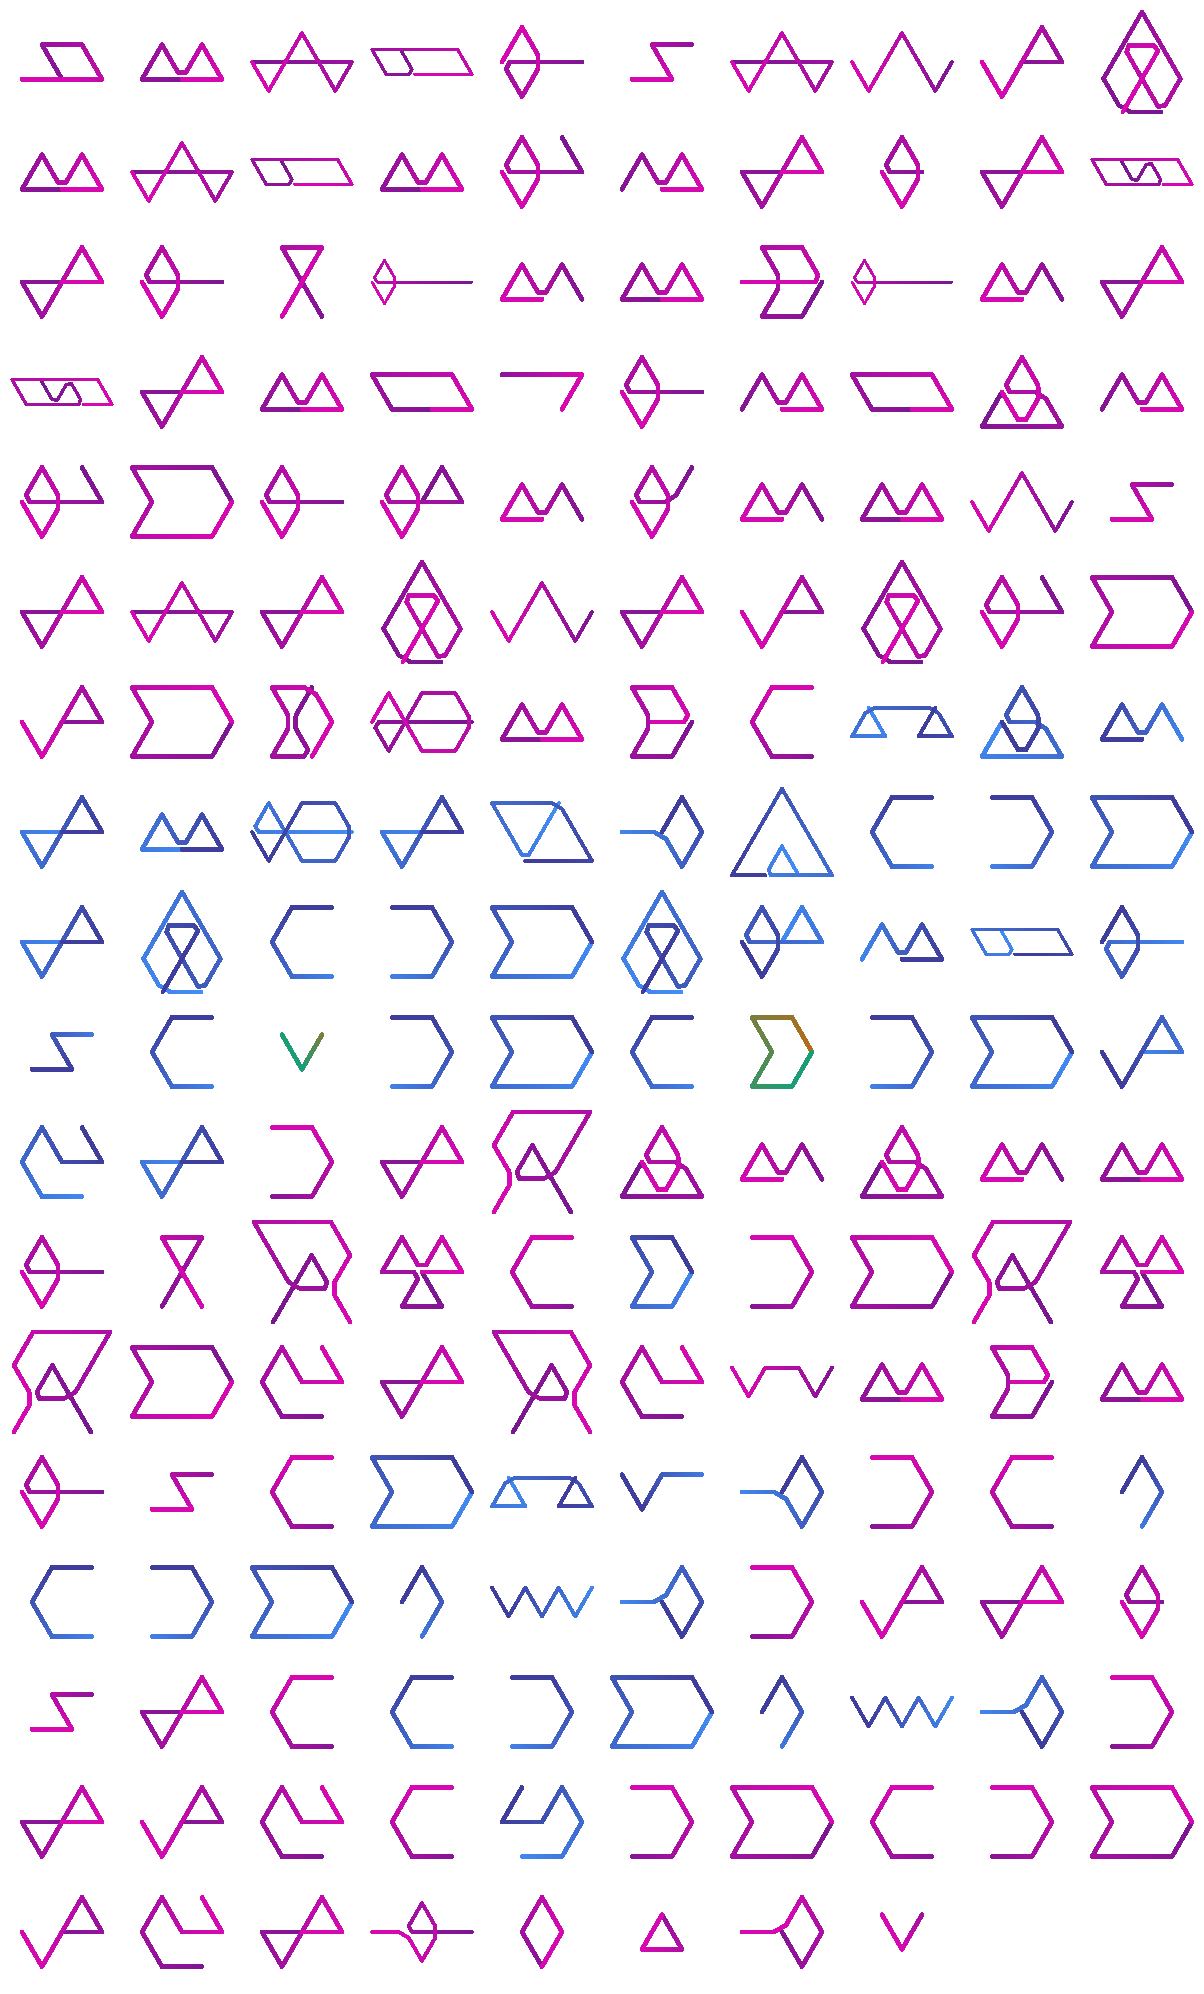
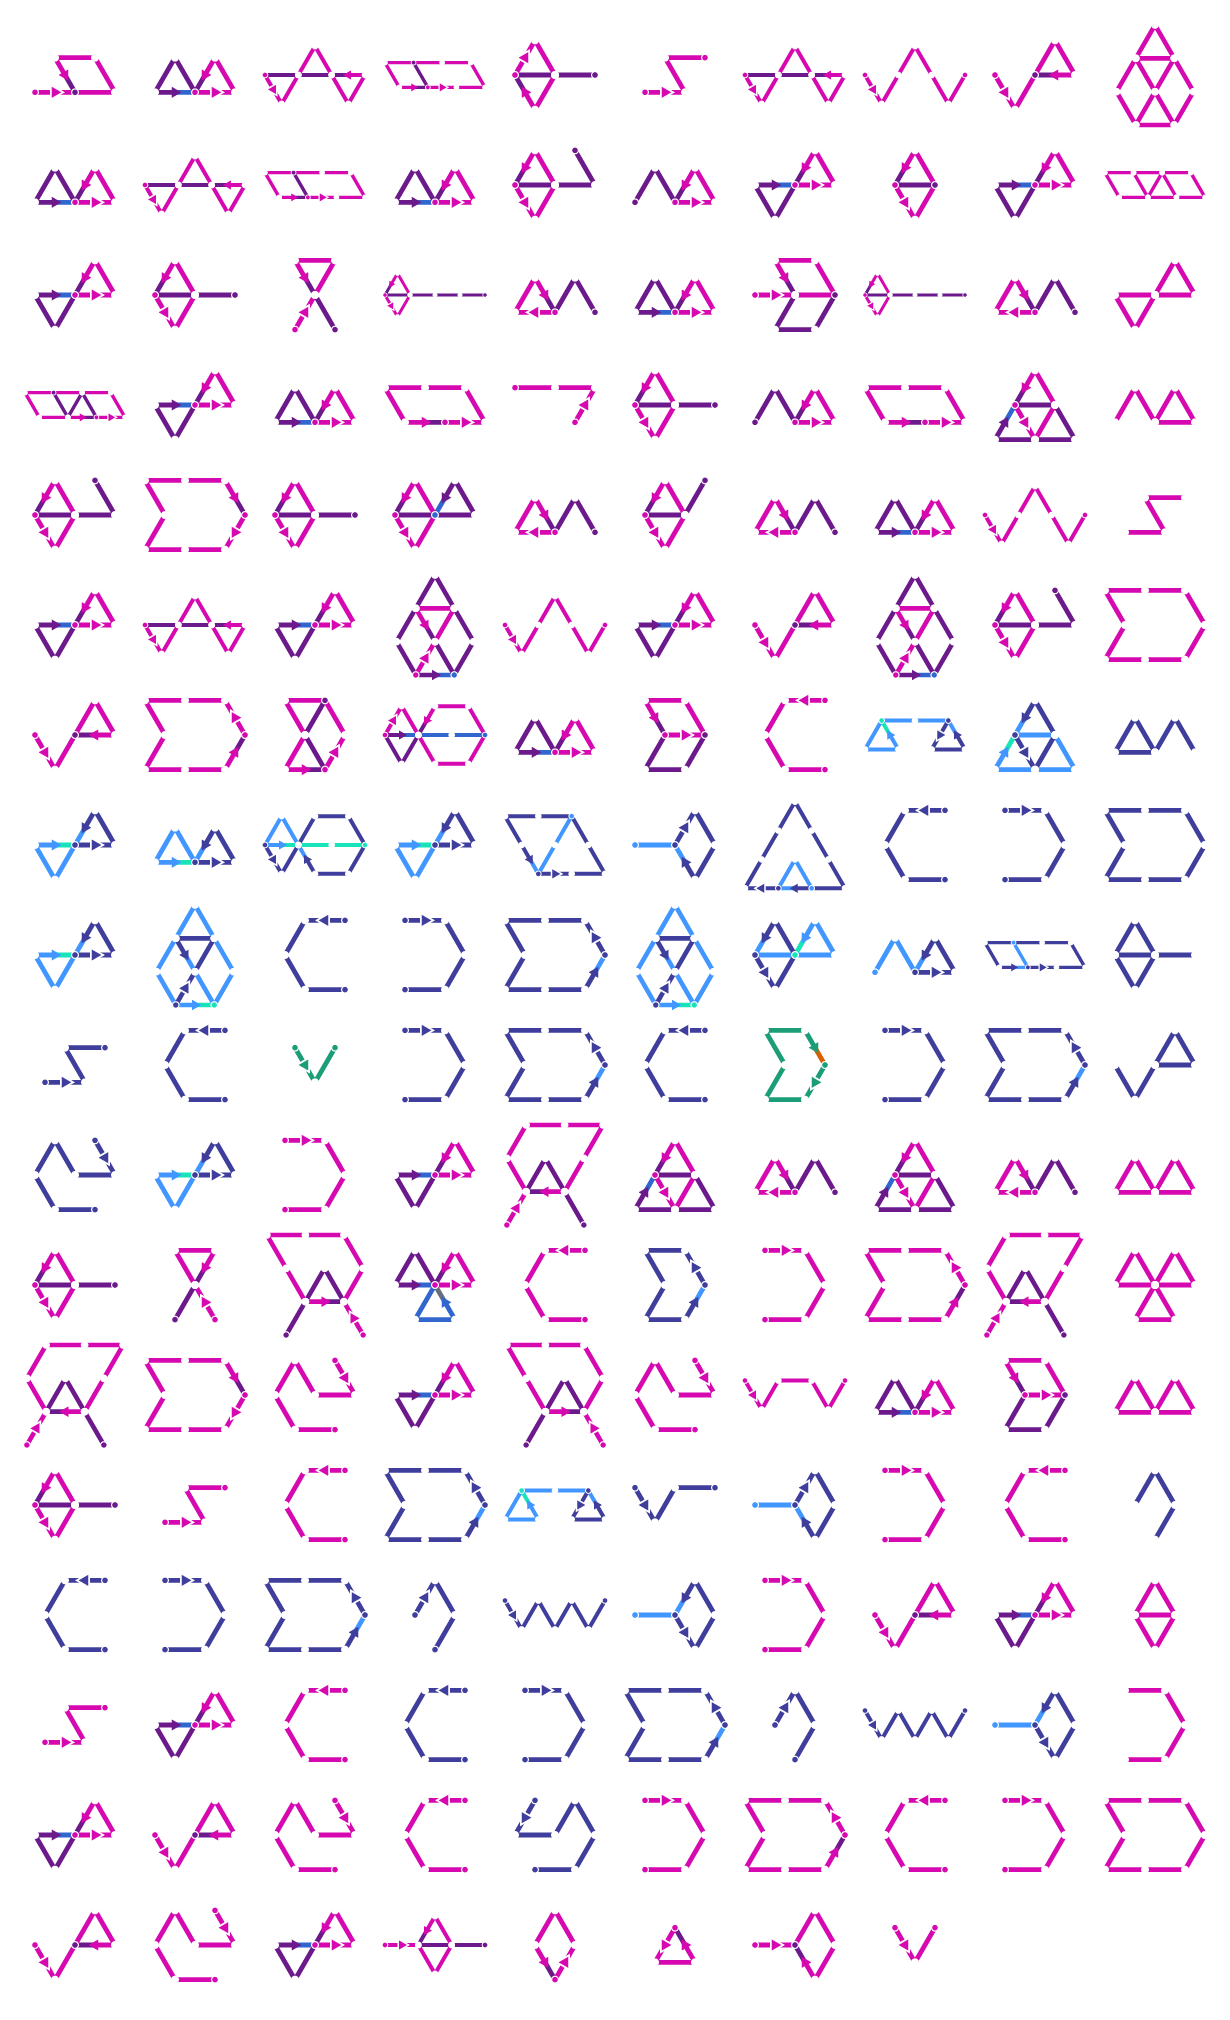
Added patternvariant so you can have monocolor patterns embeded with gradient/segment ones

diff --git a/hex_renderer/src/grids/mod.rs b/hex_renderer/src/grids/mod.rs
@@ -9,9 +9,9 @@ use std::{collections::HashSet, fs, io};
 use tiny_skia::Pixmap;
 
 use crate::{
-    options::{GridOptions, GridPatternOptions},
+    options::{GridOptions, GridPatternOptions, Intersections, Lines},
+    pattern::PatternVariant,
     pattern_utils::HexCoord,
-    Pattern,
 };
 
 #[derive(Debug)]
@@ -62,7 +62,7 @@ pub trait GridDraw {
 
 fn draw_grid(
     size: HexCoord,
-    patterns: &Vec<(Pattern, HexCoord, f32)>,
+    patterns: &Vec<(PatternVariant, HexCoord, f32)>,
     options: &GridOptions,
     scale: f32,
 ) -> Result<Pixmap, GridDrawError> {
@@ -104,6 +104,38 @@ fn draw_grid(
         (intros, retros)
     };
 
+    let monocolor_lines = lines
+        .iter()
+        .map(|line| {
+            Lines::Monocolor(match line {
+                Lines::Monocolor(color) => *color,
+                Lines::Gradient {
+                    colors,
+                    segments_per_color: _,
+                    bent: _,
+                } => colors[0],
+                Lines::SegmentColors {
+                    colors,
+                    triangles: _,
+                    collisions: _,
+                } => colors[0],
+            })
+        })
+        .collect::<Vec<Lines>>();
+
+    let monocolor_intersections = intersections
+        .iter()
+        .map(|intersection| match intersection {
+            Intersections::Nothing => Intersections::Nothing,
+            Intersections::UniformPoints(point) => Intersections::UniformPoints(*point),
+            Intersections::EndsAndMiddle {
+                start: _,
+                end: _,
+                middle,
+            } => Intersections::UniformPoints(*middle),
+        })
+        .collect::<Vec<Intersections>>();
+
     let max_radius = options.get_max_radius();
 
     let border_size = max_radius * scale;
@@ -123,25 +155,39 @@ fn draw_grid(
     for (pattern, location, local_scale) in patterns {
         let location = *location * scale + offset;
 
-        if intros.contains(&pattern.angles) {
+        if intros.contains(&pattern.get_inner().angles) {
             increment = true;
-        } else if retros.contains(&pattern.angles) {
+        } else if retros.contains(&pattern.get_inner().angles) {
             if lines_index == 0 {
                 lines_index = lines.len() - 1;
             } else {
                 lines_index -= 1;
             }
         }
-
-        pattern.draw_pattern(
-            &mut pixmap,
-            location,
-            scale * *local_scale,
-            options.line_thickness,
-            &lines[lines_index],
-            &intersections[lines_index],
-            &options.center_dot,
-        );
+        match pattern {
+            PatternVariant::Normal(pattern) => {
+                pattern.draw_pattern(
+                    &mut pixmap,
+                    location,
+                    scale * *local_scale,
+                    options.line_thickness,
+                    &lines[lines_index],
+                    &intersections[lines_index],
+                    &options.center_dot,
+                );
+            }
+            PatternVariant::Monocolor(pattern) => {
+                pattern.draw_pattern(
+                    &mut pixmap,
+                    location,
+                    scale * *local_scale,
+                    options.line_thickness,
+                    &monocolor_lines[lines_index],
+                    &monocolor_intersections[lines_index],
+                    &options.center_dot,
+                );
+            }
+        }
 
         if increment {
             increment = false;

diff --git a/hex_renderer/src/grids/hex_grid.rs b/hex_renderer/src/grids/hex_grid.rs
@@ -2,20 +2,30 @@ use tiny_skia::Pixmap;
 
 use crate::{
     options::GridOptions,
-    pattern::Pattern,
+    pattern::PatternVariant,
     pattern_utils::{Coord, HexCoord},
+    Pattern,
 };
 
 use super::{GridCreationError, GridDraw, GridDrawError};
 
 #[derive(Debug)]
 pub struct HexGrid {
-    patterns: Vec<(Pattern, HexCoord, f32)>,
+    patterns: Vec<(PatternVariant, HexCoord, f32)>,
     bottom_right: HexCoord,
 }
 
 impl HexGrid {
-    pub fn new(patterns: Vec<Pattern>, max_width: i32) -> Result<Self, GridCreationError> {
+    pub fn new_normal(patterns: Vec<Pattern>, max_width: i32) -> Result<Self, GridCreationError> {
+        Self::new(
+            patterns
+                .into_iter()
+                .map(|pattern| PatternVariant::Normal(pattern))
+                .collect(),
+            max_width,
+        )
+    }
+    pub fn new(patterns: Vec<PatternVariant>, max_width: i32) -> Result<Self, GridCreationError> {
         if patterns.len() == 0 {
             return Err(GridCreationError::EmptyPatternList);
         } else if max_width < 1 {
@@ -35,7 +45,7 @@ impl HexGrid {
         let mut offset_left = true;
 
         for index in 0..patterns.len() {
-            let pattern = &patterns[index];
+            let pattern = &patterns[index].get_inner();
             let height = pattern.bottom_right.1 - pattern.top_left.1;
 
             if index == 0 {
@@ -54,7 +64,7 @@ impl HexGrid {
                     offset_left = false;
                 }
             } else {
-                let prev_pattern = &patterns[index - 1];
+                let prev_pattern = patterns[index - 1].get_inner();
                 let mut max_distance_decrease = i32::MAX;
                 for i in 0..pattern
                     .left_perimiter
@@ -98,7 +108,7 @@ impl HexGrid {
 
                 max_y_row = 0;
 
-                for point in &patterns[index - 1].right_perimiter {
+                for point in &patterns[index - 1].get_inner().right_perimiter {
                     let point = HexCoord::from(*point + locations[index - 1]);
                     if point.0 > max_x {
                         max_x = point.0;
@@ -116,7 +126,7 @@ impl HexGrid {
 
         if current_y == 0 {
             let index = patterns.len() - 1;
-            for point in &patterns[index].right_perimiter {
+            for point in &patterns[index].get_inner().right_perimiter {
                 let point = HexCoord::from(*point + locations[index]);
                 if point.0 > max_x {
                     max_x = point.0;

diff --git a/hex_renderer/src/grids/square_grid.rs b/hex_renderer/src/grids/square_grid.rs
@@ -1,18 +1,37 @@
 use tiny_skia::Pixmap;
 
-use crate::options::GridOptions;
-use crate::{pattern_utils::HexCoord, Pattern};
+use crate::pattern::PatternVariant;
+use crate::pattern_utils::HexCoord;
+use crate::{options::GridOptions, Pattern};
 
 use super::{GridCreationError, GridDraw, GridDrawError};
 
 pub struct SquareGrid {
-    patterns: Vec<(Pattern, HexCoord, f32)>,
+    patterns: Vec<(PatternVariant, HexCoord, f32)>,
     size: HexCoord,
 }
 
 impl SquareGrid {
-    pub fn new(
+    pub fn new_normal(
         patterns: Vec<Pattern>,
+        max_width: usize,
+        max_scale: f32,
+        x_pad: f32,
+        y_pad: f32,
+    ) -> Result<Self, GridCreationError> {
+        Self::new(
+            patterns
+                .into_iter()
+                .map(|pattern| PatternVariant::Normal(pattern))
+                .collect(),
+            max_width,
+            max_scale,
+            x_pad,
+            y_pad,
+        )
+    }
+    pub fn new(
+        patterns: Vec<PatternVariant>,
         max_width: usize,
         max_scale: f32,
         x_pad: f32,
@@ -23,9 +42,10 @@ impl SquareGrid {
         } else if max_width == 0 || x_pad < 0.0 || y_pad < 0.0 {
             return Err(GridCreationError::NegativeInput);
         }
-        let mut new_patterns: Vec<(Pattern, HexCoord, f32)> = Vec::new();
+        let mut new_patterns: Vec<(PatternVariant, HexCoord, f32)> = Vec::new();
 
         for (i, pattern) in patterns.clone().into_iter().enumerate() {
+            let pattern_ref = pattern.get_inner();
             let y = i / max_width;
             let x = i - y * max_width;
 
@@ -34,13 +54,13 @@ impl SquareGrid {
 
             let pos = HexCoord(x, y);
 
-            let area = pattern.bottom_right_bound - pattern.top_left_bound;
+            let area = pattern_ref.bottom_right_bound - pattern_ref.top_left_bound;
 
             let largest_bound = area.0.max(area.1);
 
             let scale = (1.0 / largest_bound).min(max_scale);
 
-            let center = area / 2.0 + pattern.top_left_bound;
+            let center = area / 2.0 + pattern_ref.top_left_bound;
 
             let pattern_loc = pos + HexCoord(0.5, 0.5) - center * scale;
 

diff --git a/hex_renderer/src/main.rs b/hex_renderer/src/main.rs
@@ -1,7 +1,7 @@
 use hex_renderer::{
     defaults,
     grids::{GridDraw, HexGrid, SquareGrid},
-    Pattern,
+    Pattern, PatternVariant,
 };
 
 fn main() {
@@ -45,11 +45,26 @@ fn main() {
     let x_pad = 0.2;
     let y_pad = 0.1;
 
-    let grid = SquareGrid::new(patterns.clone(), 10, max_scale, x_pad, y_pad).unwrap();
-    grid.draw_grid_to_file("square.png", global_scale, &defaults::GRADIENT)
+    let mut count = 0;
+
+    let variants = patterns
+        .clone()
+        .into_iter()
+        .map(|pattern| {
+            count += 1;
+            if count % 10 == 0 {
+                PatternVariant::Monocolor(pattern)
+            } else {
+                PatternVariant::Normal(pattern)
+            }
+        })
+        .collect();
+
+    let grid = SquareGrid::new(variants, 10, max_scale, x_pad, y_pad).unwrap();
+    grid.draw_grid_to_file("square.png", global_scale, &defaults::SEGMENT)
         .unwrap();
 
-    let grid = HexGrid::new(patterns, 40).unwrap();
+    let grid = HexGrid::new_normal(patterns, 40).unwrap();
     grid.draw_grid_to_file("image.png", global_scale, &defaults::SEGMENT)
         .unwrap();
 }

diff --git a/hex_renderer/src/lib.rs b/hex_renderer/src/lib.rs
@@ -2,7 +2,7 @@
 pub mod pattern_utils;
 
 mod pattern;
-pub use pattern::Pattern;
+pub use pattern::*;
 
 pub mod grids;
 
@@ -27,7 +27,7 @@ mod tests {
             .split(", ")
             .filter_map(|str| Pattern::try_from(str).map_or(None, |pattern| Some(pattern)))
             .collect();
-        let grid = HexGrid::new(patterns.clone(), 30).unwrap();
+        let grid = HexGrid::new_normal(patterns.clone(), 30).unwrap();
         b.iter(|| grid.draw_grid_png(50.0, &defaults::SEGMENT));
     }
 }
